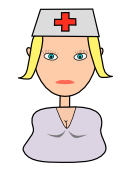
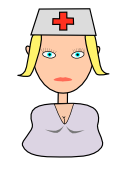
Improved the nurses eyes

diff --git a/README.md b/README.md
@@ -10,7 +10,7 @@ Characters to be included in the game:
 
 [X] Nurse
 
-[ ] The elderly
+[X] The elderly
 
 [ ] Fathers
 
